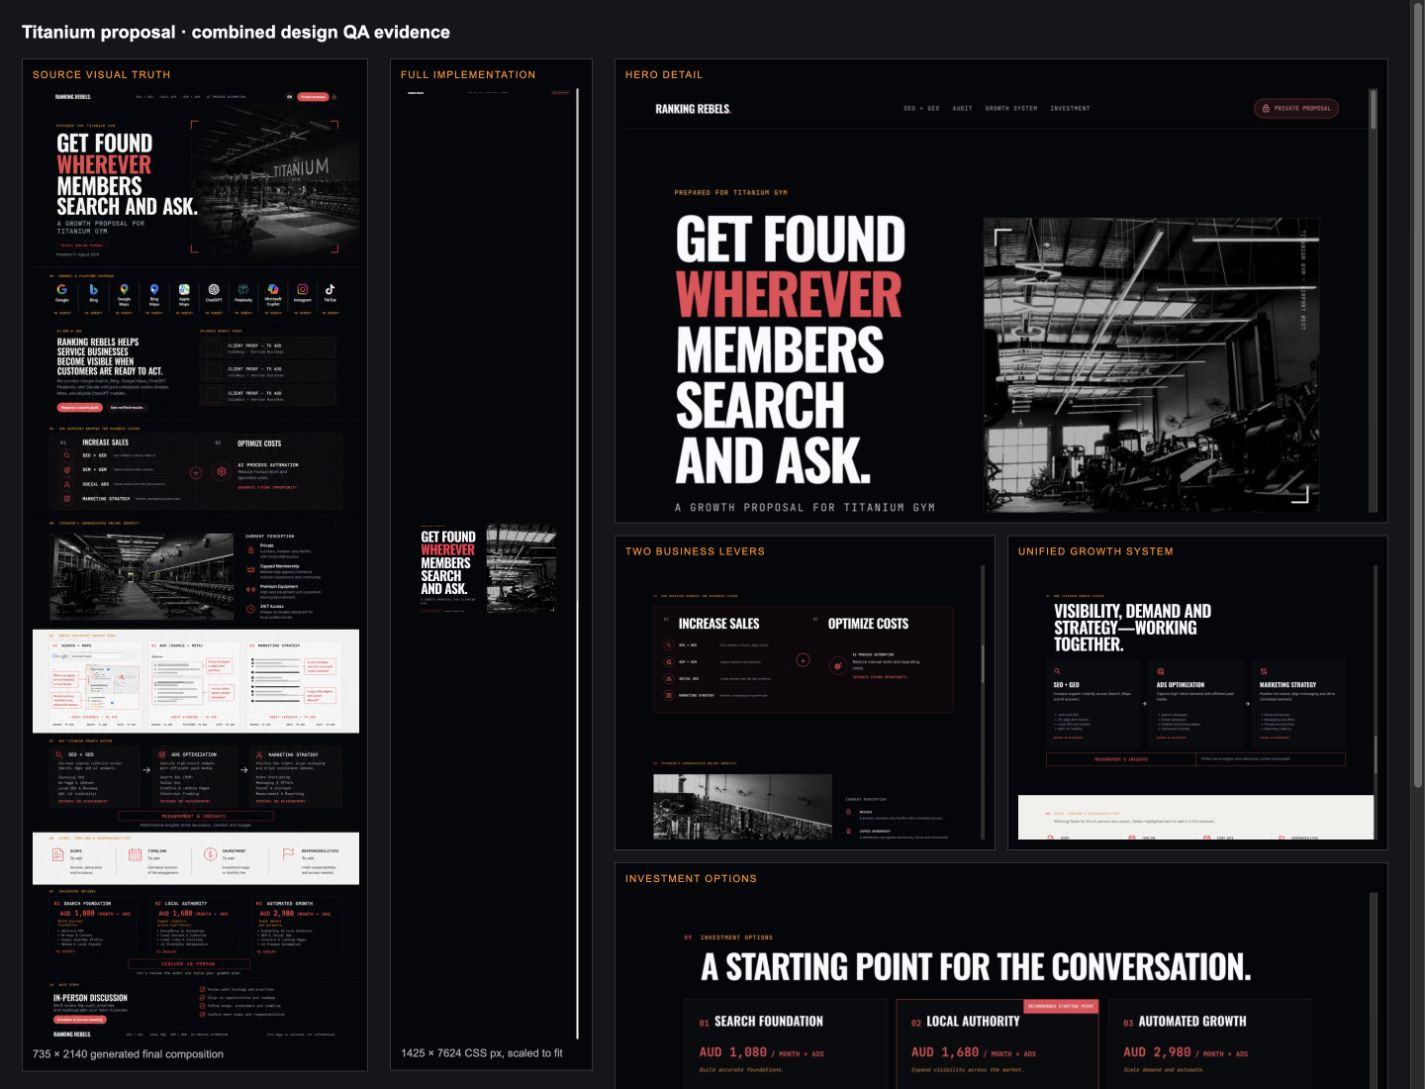
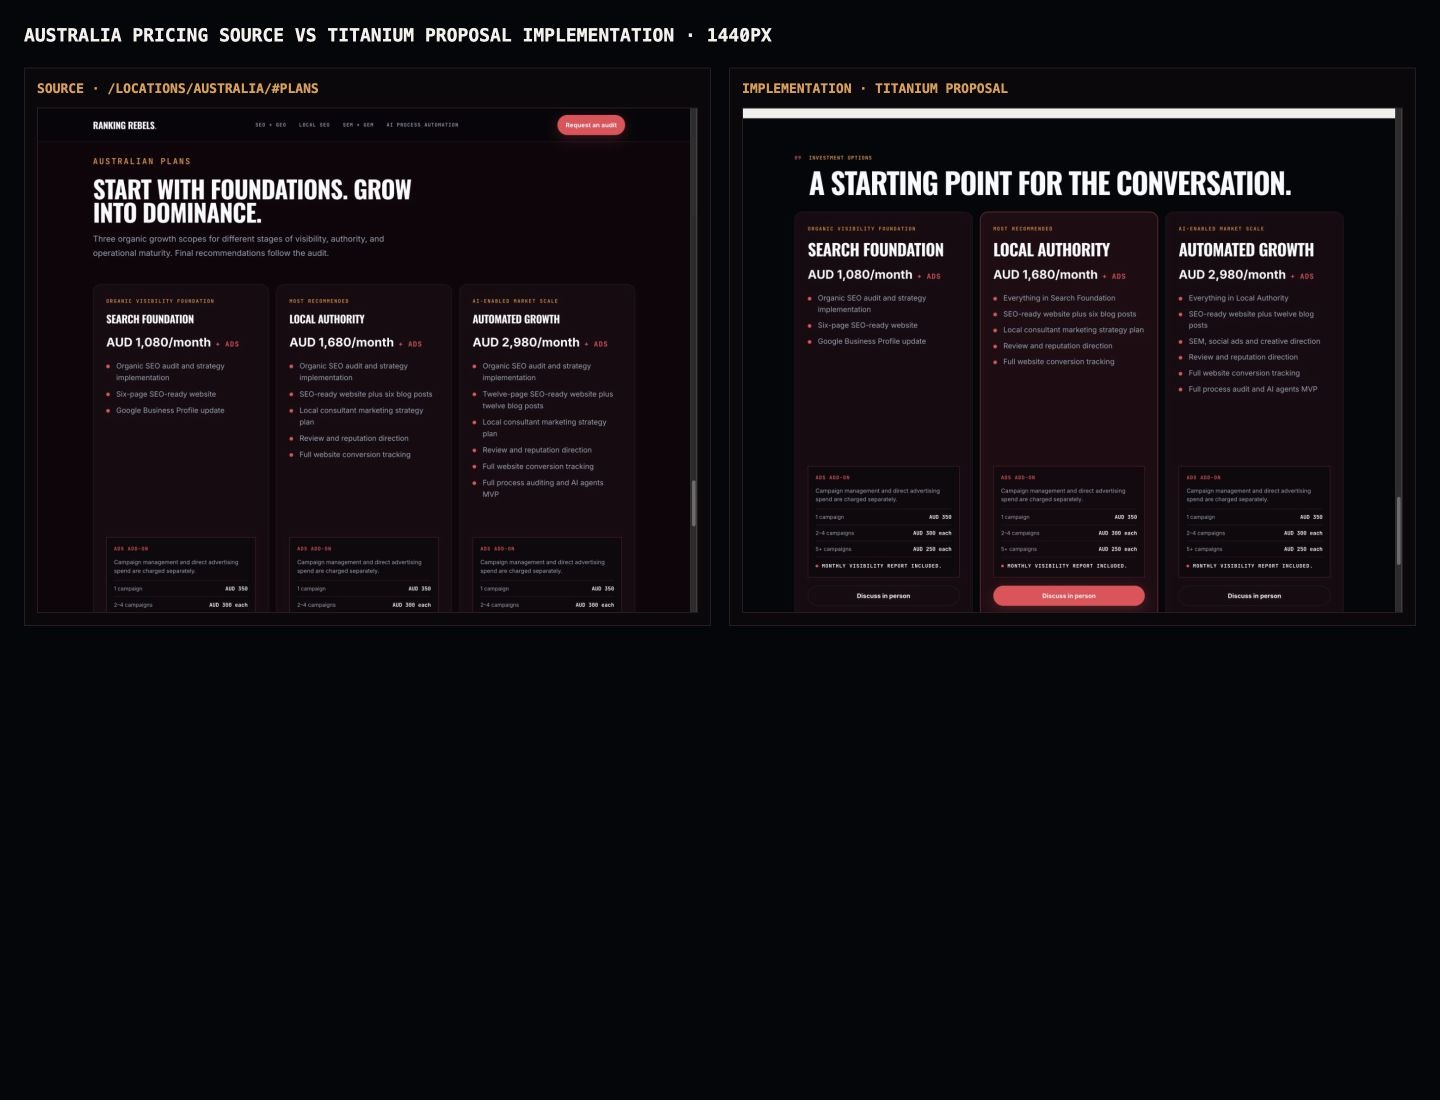
fix the cosmetic issues

diff --git a/proposals/titanium-gym-9c42e7/styles.css b/proposals/titanium-gym-9c42e7/styles.css
@@ -121,7 +121,6 @@ main > section { border-bottom: 1px solid var(--border); }
 .discussion,
 .platform-grid,
 .measurement,
-.ads-note,
 .perception-summary {
   max-width: var(--max);
   margin-inline: auto;
@@ -156,8 +155,8 @@ h3 { font-size: 25px; }
 
 .hero {
   display: grid;
-  grid-template-columns: minmax(0, .88fr) minmax(440px, 1.12fr);
-  gap: clamp(28px, 6vw, 84px);
+  grid-template-columns: minmax(520px, .96fr) minmax(420px, 1.04fr);
+  gap: clamp(28px, 4vw, 64px);
   align-items: center;
   min-height: calc(100vh - 68px);
   padding-block: clamp(56px, 7vw, 96px);
@@ -165,10 +164,11 @@ h3 { font-size: 25px; }
 .hero h1 {
   max-width: 640px;
   margin: 18px 0 24px;
-  font-size: clamp(64px, 7.5vw, 112px);
+  font-size: clamp(64px, 6.9vw, 104px);
   letter-spacing: -.045em;
+  overflow-wrap: normal;
 }
-.hero h1 span { display: block; color: var(--tertiary); }
+.hero h1 span { display: block; color: var(--tertiary); white-space: nowrap; overflow-wrap: normal; word-break: keep-all; }
 .hero-subtitle {
   max-width: 480px;
   margin: 0 0 30px;
@@ -246,6 +246,7 @@ h3 { font-size: 25px; }
 .platform:last-child { border-right: 0; }
 .platform .material-symbols-outlined { color: var(--neutral); font-size: 28px; }
 .platform > img { width: 28px; height: 28px; margin-inline: auto; object-fit: contain; }
+.platform > img.chatgpt-mark { width: 31px; height: 31px; }
 .platform > img.platform-mark-invert { filter: invert(1); }
 .platform strong { align-self: center; font-family: var(--display); font-size: 14px; line-height: 1.05; text-transform: uppercase; }
 .platform small { color: var(--accent); font-family: var(--mono); font-size: 8px; font-weight: 700; text-transform: uppercase; }
@@ -381,23 +382,45 @@ h3 { font-size: 25px; }
 
 .investment { padding-top: 78px; }
 .investment .section-heading h2 { margin: 12px 0 0; font-size: clamp(40px, 5vw, 64px); }
-.pricing-grid { display: grid; grid-template-columns: repeat(3, 1fr); gap: 18px; }
-.plan { position: relative; display: flex; flex-direction: column; min-height: 565px; padding: 28px; border: 1px solid var(--border); background: rgba(255,255,255,.018); }
-.plan.featured { border-color: rgba(255,48,79,.75); }
-.plan-badge { position: absolute; top: 0; right: 0; padding: 7px 9px; background: var(--tertiary); color: white; font-family: var(--mono); font-size: 8px; font-weight: 700; text-transform: uppercase; }
-.plan-title { display: flex; gap: 10px; align-items: baseline; }
-.plan-title span { color: var(--tertiary); font-family: var(--mono); font-weight: 700; }
-.plan-title h3 { margin: 0; font-size: 24px; }
-.price { margin: 24px 0 0; color: var(--tertiary); font-family: var(--mono); font-size: 13px; font-weight: 700; text-transform: uppercase; }
-.price strong { font-size: 24px; }
-.plan-fit { margin: 8px 0 17px; color: var(--accent); font-family: var(--mono); font-size: 10px; font-style: italic; }
-.plan ul { display: grid; gap: 9px; padding-left: 18px; color: #bcc1ca; font-size: 12px; }
-.plan-cta { display: block; margin-top: auto; padding: 13px; border: 1px solid var(--tertiary); color: var(--tertiary); font-family: var(--mono); font-size: 10px; font-weight: 700; text-align: center; text-decoration: none; text-transform: uppercase; }
-.plan-cta:hover, .plan-cta:focus-visible { background: var(--tertiary); color: white; }
-.ads-note { display: grid; grid-template-columns: 1.2fr repeat(3, auto); gap: 20px; align-items: center; margin-top: 22px; padding: 20px 24px; border: 1px solid var(--border); }
-.ads-note strong { font-family: var(--mono); text-transform: uppercase; }
-.ads-note span { color: var(--neutral); font-family: var(--mono); font-size: 10px; }
-.ads-note small { grid-column: 1 / -1; color: var(--secondary); }
+.pricing-grid { display: grid; grid-template-columns: repeat(3, minmax(0, 1fr)); gap: 16px; }
+.price-card {
+  display: flex;
+  flex-direction: column;
+  gap: 18px;
+  min-width: 0;
+  min-height: 890px;
+  padding: 28px;
+  border: 1px solid var(--border);
+  border-radius: 18px;
+  background: var(--surface-card);
+  transition: transform 180ms ease, border-color 180ms ease, box-shadow 180ms ease;
+}
+.price-card:hover { border-color: rgba(255,48,79,.5); box-shadow: 0 20px 48px rgba(0,0,0,.2); transform: translateY(-3px); }
+.price-card.featured { border-color: rgba(255,48,79,.75); background: #230b13; }
+.price-card h3 { margin: 0; font-size: clamp(28px, 2.5vw, 36px); letter-spacing: -.025em; }
+.plan-label { margin: 0; color: var(--accent); font-family: var(--mono); font-size: .68rem; font-weight: 600; letter-spacing: .15em; text-transform: uppercase; }
+.price { margin: 0; color: var(--neutral); font-family: var(--body); font-size: 1.65rem; font-weight: 900; text-transform: none; }
+.plan-price { display: flex; flex-wrap: wrap; align-items: baseline; gap: 5px 10px; }
+.plan-price-main, .plan-price-extra { white-space: nowrap; }
+.plan-price-extra { color: var(--tertiary); font-family: var(--mono); font-size: .58em; font-weight: 700; letter-spacing: .08em; text-transform: uppercase; }
+.feature-list { display: grid; gap: 10px; margin: 0; padding: 0; color: var(--secondary); list-style: none; }
+.feature-list li { position: relative; padding-left: 22px; }
+.feature-list li::before { position: absolute; top: .62em; left: 0; width: 8px; height: 8px; border-radius: 50%; background: var(--tertiary); content: ""; }
+.plan-ads { display: grid; gap: 11px; margin-top: auto; padding: 16px; border: 1px solid rgba(255,48,79,.34); background: rgba(5,6,9,.48); }
+.plan-ads-label, .plan-ads-report { margin: 0; color: var(--tertiary); font-family: var(--mono); font-size: .68rem; font-weight: 700; letter-spacing: .09em; text-transform: uppercase; }
+.plan-ads-note { margin: 0; color: var(--secondary); font-size: .78rem; line-height: 1.5; }
+.plan-ads-rates { display: grid; gap: 0; margin: 0; border-top: 1px solid var(--border); }
+.plan-ads-rates > div { display: flex; justify-content: space-between; gap: 12px; padding: 8px 0; border-bottom: 1px solid var(--border); }
+.plan-ads-rates dt, .plan-ads-rates dd { margin: 0; font-size: .73rem; }
+.plan-ads-rates dt { color: var(--secondary); }
+.plan-ads-rates dd { color: var(--neutral); font-family: var(--mono); font-weight: 700; text-align: right; }
+.plan-ads-report { position: relative; padding-left: 14px; color: var(--neutral); line-height: 1.45; }
+.plan-ads-report::before { position: absolute; top: .46em; left: 0; width: 6px; height: 6px; border-radius: 50%; background: var(--tertiary); content: ""; }
+.investment .button { display: inline-flex; align-items: center; justify-content: center; width: 100%; min-height: 44px; margin-top: 0; padding: 12px 18px; border-radius: 999px; font-size: .84rem; font-weight: 800; line-height: 1.15; text-align: center; text-decoration: none; transition: transform 150ms ease, border-color 150ms ease, background 150ms ease, box-shadow 150ms ease; }
+.investment .button-primary { background: var(--tertiary); color: #fff; box-shadow: 0 8px 28px rgba(255,48,79,.24); }
+.investment .button-primary:hover { background: #e72a46; box-shadow: 0 12px 34px rgba(255,48,79,.34); transform: translateY(-2px); }
+.investment .button-outline { border: 1px solid var(--border); background: var(--surface-card); color: var(--neutral); }
+.investment .button-outline:hover { border-color: var(--neutral); transform: translateY(-2px); }
 
 .discussion { display: grid; grid-template-columns: .85fr 1.15fr; gap: 80px; align-items: center; border-bottom: 0; }
 .discussion .section-heading { margin-bottom: 30px; }
@@ -435,14 +458,12 @@ h3 { font-size: 25px; }
   .lever + .lever { border-top: 1px solid rgba(255,48,79,.35); border-left: 0; }
   .lever-plus { top: 50%; }
   .audit-grid, .pricing-grid { grid-template-columns: 1fr; }
-  .audit-card, .plan { min-height: auto; }
+  .audit-card, .price-card { min-height: auto; }
   .system-grid { grid-template-columns: 1fr; gap: 12px; }
   .system-arrow { transform: rotate(90deg); }
   .system-grid p { min-height: 0; }
   .measurement { grid-template-columns: 1fr; }
   .measurement span { border-top: 1px solid var(--tertiary); border-left: 0; text-align: center; }
-  .ads-note { grid-template-columns: 1fr 1fr; }
-  .ads-note strong, .ads-note small { grid-column: 1 / -1; }
 }
 
 @media (max-width: 600px) {
@@ -471,10 +492,7 @@ h3 { font-size: 25px; }
   .scope-grid { grid-template-columns: 1fr; gap: 0; }
   .scope-grid article, .scope-grid article:nth-child(3) { padding: 20px 0; border-right: 0; border-bottom: 1px solid #cac4bd; }
   .scope-grid article:last-child { border-bottom: 0; }
-  .plan { padding: 24px 20px; }
-  .price strong { display: block; }
-  .ads-note { grid-template-columns: 1fr; }
-  .ads-note strong, .ads-note small { grid-column: auto; }
+  .price-card { padding: 24px 20px; }
   .site-footer { grid-template-columns: 1fr; gap: 8px; padding-block: 18px; }
   .site-footer p { grid-column: 1; justify-self: start; text-align: left; }
 }

diff --git a/proposals/titanium-gym-9c42e7/index.html b/proposals/titanium-gym-9c42e7/index.html
@@ -63,7 +63,7 @@
           <article class="platform" role="listitem"><img src="/proposals/titanium-gym-9c42e7/assets/logo-google-maps.svg" alt="" aria-hidden="true"><strong>Google Maps</strong><small>To verify</small></article>
           <article class="platform" role="listitem"><img src="/proposals/titanium-gym-9c42e7/assets/logo-bing.svg" alt="" aria-hidden="true"><strong>Bing Maps</strong><small>To verify</small></article>
           <article class="platform" role="listitem"><img class="platform-mark-invert" src="/proposals/titanium-gym-9c42e7/assets/logo-apple.svg" alt="" aria-hidden="true"><strong>Apple Maps</strong><small>To verify</small></article>
-          <article class="platform" role="listitem"><img src="/proposals/titanium-gym-9c42e7/assets/logo-openai.svg" alt="" aria-hidden="true"><strong>ChatGPT</strong><small>To verify</small></article>
+          <article class="platform" role="listitem"><img class="chatgpt-mark" src="/proposals/titanium-gym-9c42e7/assets/logo-chatgpt-blossom.svg" alt="" aria-hidden="true"><strong>ChatGPT</strong><small>To verify</small></article>
           <article class="platform" role="listitem"><img src="/proposals/titanium-gym-9c42e7/assets/logo-perplexity.svg" alt="" aria-hidden="true"><strong>Perplexity</strong><small>To verify</small></article>
           <article class="platform" role="listitem"><img src="/proposals/titanium-gym-9c42e7/assets/logo-copilot.svg" alt="" aria-hidden="true"><strong>Copilot</strong><small>To verify</small></article>
           <article class="platform" role="listitem"><img src="/proposals/titanium-gym-9c42e7/assets/logo-instagram.svg" alt="" aria-hidden="true"><strong>Instagram</strong><small>To verify</small></article>
@@ -204,33 +204,30 @@
           <div><p class="eyebrow">Investment options</p><h2 id="investment-title">A starting point for the conversation.</h2></div>
         </div>
         <div class="pricing-grid">
-          <article class="plan">
-            <div class="plan-title"><span>01</span><h3>Search Foundation</h3></div>
-            <p class="price"><strong>AUD 1,080</strong> / month + ads</p>
-            <p class="plan-fit">Build accurate foundations.</p>
-            <ul><li>Organic SEO audit and strategy implementation</li><li>Six-page SEO-ready website</li><li>Google Business Profile update</li></ul>
-            <a href="#discussion" class="plan-cta">Discuss in person</a>
+          <article class="price-card">
+            <p class="plan-label">Organic visibility foundation</p>
+            <h3>Search Foundation</h3>
+            <p class="price plan-price"><span class="plan-price-main">AUD 1,080/month</span><span class="plan-price-extra">+ Ads</span></p>
+            <ul class="feature-list"><li>Organic SEO audit and strategy implementation</li><li>Six-page SEO-ready website</li><li>Google Business Profile update</li></ul>
+            <div class="plan-ads" aria-label="Ads add-on pricing"><p class="plan-ads-label">Ads add-on</p><p class="plan-ads-note">Campaign management and direct advertising spend are charged separately.</p><dl class="plan-ads-rates"><div><dt>1 campaign</dt><dd>AUD 350</dd></div><div><dt>2–4 campaigns</dt><dd>AUD 300 each</dd></div><div><dt>5+ campaigns</dt><dd>AUD 250 each</dd></div></dl><p class="plan-ads-report">Monthly visibility report included.</p></div>
+            <a class="button button-outline" href="#discussion">Discuss in person</a>
           </article>
-          <article class="plan featured">
-            <div class="plan-badge">Recommended starting point</div>
-            <div class="plan-title"><span>02</span><h3>Local Authority</h3></div>
-            <p class="price"><strong>AUD 1,680</strong> / month + ads</p>
-            <p class="plan-fit">Expand visibility across the market.</p>
-            <ul><li>Everything in Search Foundation</li><li>SEO-ready website + six blog posts</li><li>Local consultant marketing strategy plan</li><li>Review and reputation direction</li><li>Full website conversion tracking</li></ul>
-            <a href="#discussion" class="plan-cta">Discuss in person</a>
+          <article class="price-card featured">
+            <p class="plan-label">Most recommended</p>
+            <h3>Local Authority</h3>
+            <p class="price plan-price"><span class="plan-price-main">AUD 1,680/month</span><span class="plan-price-extra">+ Ads</span></p>
+            <ul class="feature-list"><li>Everything in Search Foundation</li><li>SEO-ready website plus six blog posts</li><li>Local consultant marketing strategy plan</li><li>Review and reputation direction</li><li>Full website conversion tracking</li></ul>
+            <div class="plan-ads" aria-label="Ads add-on pricing"><p class="plan-ads-label">Ads add-on</p><p class="plan-ads-note">Campaign management and direct advertising spend are charged separately.</p><dl class="plan-ads-rates"><div><dt>1 campaign</dt><dd>AUD 350</dd></div><div><dt>2–4 campaigns</dt><dd>AUD 300 each</dd></div><div><dt>5+ campaigns</dt><dd>AUD 250 each</dd></div></dl><p class="plan-ads-report">Monthly visibility report included.</p></div>
+            <a class="button button-primary" href="#discussion">Discuss in person</a>
           </article>
-          <article class="plan">
-            <div class="plan-title"><span>03</span><h3>Automated Growth</h3></div>
-            <p class="price"><strong>AUD 2,980</strong> / month + ads</p>
-            <p class="plan-fit">Scale demand and automate.</p>
-            <ul><li>Everything in Local Authority</li><li>SEO-ready website + twelve blog posts</li><li>SEM, social ads and creative direction</li><li>Review and reputation direction</li><li>Full website conversion tracking</li><li>Full process audit and AI agents MVP</li></ul>
-            <a href="#discussion" class="plan-cta">Discuss in person</a>
+          <article class="price-card">
+            <p class="plan-label">AI-enabled market scale</p>
+            <h3>Automated Growth</h3>
+            <p class="price plan-price"><span class="plan-price-main">AUD 2,980/month</span><span class="plan-price-extra">+ Ads</span></p>
+            <ul class="feature-list"><li>Everything in Local Authority</li><li>SEO-ready website plus twelve blog posts</li><li>SEM, social ads and creative direction</li><li>Review and reputation direction</li><li>Full website conversion tracking</li><li>Full process audit and AI agents MVP</li></ul>
+            <div class="plan-ads" aria-label="Ads add-on pricing"><p class="plan-ads-label">Ads add-on</p><p class="plan-ads-note">Campaign management and direct advertising spend are charged separately.</p><dl class="plan-ads-rates"><div><dt>1 campaign</dt><dd>AUD 350</dd></div><div><dt>2–4 campaigns</dt><dd>AUD 300 each</dd></div><div><dt>5+ campaigns</dt><dd>AUD 250 each</dd></div></dl><p class="plan-ads-report">Monthly visibility report included.</p></div>
+            <a class="button button-outline" href="#discussion">Discuss in person</a>
           </article>
-        </div>
-        <div class="ads-note">
-          <strong>Paid campaign management</strong>
-          <span>1 campaign: AUD 350</span><span>2–4: AUD 300 each</span><span>5+: AUD 250 each</span>
-          <small>Direct media spend is separate. Monthly visibility report included.</small>
         </div>
       </section>
 

diff --git a/tests/titanium-proposal.test.js b/tests/titanium-proposal.test.js
@@ -17,6 +17,7 @@ test("Titanium proposal files and client assets stay inside the tokenized route"
     `${route}/script.js`,
     `${route}/assets/titanium-gym-floor.jpg`,
     `${route}/assets/titanium-hero-01.jpg`,
+    `${route}/assets/logo-chatgpt-blossom.svg`,
     `${route}/assets/final-visual-target.png`,
   ].forEach((file) => assert.equal(exists(file), true, `${file} should exist`));
 
@@ -66,6 +67,8 @@ test("coverage, audit placeholders and business levers are complete", () => {
     .forEach((service) => assert.ok(html.toLowerCase().includes(service.toLowerCase()), `${service} should be present`));
   assert.ok((html.match(/To verify/gi) || []).length >= 10);
   assert.match(html, /Audit evidence · to add/);
+  assert.match(html, /assets\/logo-chatgpt-blossom\.svg/);
+  assert.match(read(`${route}/assets/logo-chatgpt-blossom.svg`), /viewBox="140 220 280 280"/);
   assert.doesNotMatch(html, /guaranteed|first-page guarantee|#1 ranking/i);
 });
 
@@ -73,6 +76,12 @@ test("Australia plan pricing is copied accurately with discussion CTAs", () => {
   ["AUD 1,080", "AUD 1,680", "AUD 2,980", "AUD 350", "AUD 300 each", "AUD 250 each"]
     .forEach((price) => assert.ok(html.includes(price), `${price} should be present`));
   assert.equal((html.match(/Discuss in person/g) || []).length, 3);
+  assert.equal((html.match(/class="price-card(?: featured)?"/g) || []).length, 3);
+  assert.equal((html.match(/class="plan-ads"/g) || []).length, 3);
+  assert.match(html, /class="button button-primary"/);
+  assert.equal((html.match(/class="button button-outline"/g) || []).length, 2);
+  ["Everything in Search Foundation", "Everything in Local Authority", "SEM, social ads and creative direction"]
+    .forEach((scope) => assert.ok(html.includes(scope), `${scope} should be preserved`));
   assert.doesNotMatch(html, /book (?:a )?call|schedule (?:a )?meeting|calendly/i);
 });
 
@@ -84,5 +93,6 @@ test("proposal is responsive, accessible and motion-safe", () => {
   assert.match(styles, /@media \(max-width: 820px\)/);
   assert.match(styles, /@media \(max-width: 600px\)/);
   assert.match(styles, /@media \(prefers-reduced-motion: reduce\)/);
+  assert.match(styles, /\.hero h1 span \{[^}]*white-space:\s*nowrap/);
   assert.doesNotMatch(styles, /overflow-x:\s*hidden/);
 });

diff --git a/design-qa.md b/design-qa.md
@@ -3,6 +3,7 @@
 ## Evidence
 
 - Source visual truth: `/Users/sramzzs4d/Projects-sramzz/agency-website/proposals/titanium-gym-9c42e7/assets/final-visual-target.png`
+- Pricing source truth: `/Users/sramzzs4d/Projects-sramzz/agency-website/proposals/titanium-gym-9c42e7/assets/qa-pricing-reference.png` (live local capture of `/locations/australia/#plans`)
 - Implementation route: `http://127.0.0.1:4176/proposals/titanium-gym-9c42e7/`
 - Combined comparison: `/Users/sramzzs4d/Projects-sramzz/agency-website/proposals/titanium-gym-9c42e7/assets/qa-comparison.png`
 - Desktop hero: `/Users/sramzzs4d/Projects-sramzz/agency-website/proposals/titanium-gym-9c42e7/assets/qa-desktop-top.png`
@@ -14,7 +15,7 @@
 - Source: 735 × 2140 pixels, shown at its native density in the combined comparison.
 - Desktop implementation: 1425 × 7624 CSS pixels at device scale 1; the top capture is 1425 × 1100 pixels. The full page is scaled to fit beside the source in the combined comparison.
 - Tablet check: requested 768 × 1024; browser content viewport 753 pixels wide at device scale 1.
-- Mobile check: requested 390 × 844; browser content viewport 375 × 812 pixels at device scale 1.
+- Mobile check: requested 390 × 844; browser content viewport 375 × 844 pixels at device scale 1.
 - State: English proposal, dark theme, default editable values, no authentication.
 
 ## Full-view comparison
@@ -23,11 +24,11 @@ The combined comparison places the complete approved composition beside the full
 
 ## Focused region comparison
 
-- Hero: Oswald scale, line breaks, coral emphasis, monochrome Titanium imagery, and private-proposal treatment match the selected direction.
+- Hero: Oswald scale, line breaks, coral emphasis, monochrome Titanium imagery, and private-proposal treatment match the selected direction. “WHEREVER” is a single no-wrap line at 1425px, 1009px, 753px, and 375px content widths.
 - Two business levers: split panel, service grouping, central plus, thin coral borders, and separate AI opportunity match the reference.
 - Growth system: three connected pillars and shared measurement rail match the approved replacement section.
-- Investment: three Australia-plan cards, exact prices, highlighted middle plan, and in-person CTAs preserve the requested composition.
-- Platform coverage: local brand marks now replace the initial generic icon treatment; all ten platforms remain labelled “To verify.”
+- Investment: the proposal now uses the Australia page's `price-card`, `plan-label`, `plan-price`, `feature-list`, `plan-ads`, featured card, and pill-button treatments. The side-by-side comparison confirms the same dark burgundy surfaces, coral bullets, rounded corners, price hierarchy, ad panels, and highlighted middle plan while retaining the proposal-specific scopes and “Discuss in person.”
+- Platform coverage: local brand marks replace the initial generic icon treatment. ChatGPT now uses a proposal-local, viewport-cropped copy of the supplied white Blossom mark; all ten platforms remain labelled “To verify.”
 
 ## Required fidelity surfaces
 
@@ -52,6 +53,19 @@ The combined comparison places the complete approved composition beside the full
    - Desktop, tablet, and mobile report no horizontal overflow.
    - The proposal route reports no console errors or warnings.
    - “Discuss in person” navigates to `#discussion`; the editable timeline field accepts keyboard input.
+4. Feedback revision pass
+   - [P2] “WHEREVER” broke inside the word at desktop width.
+   - [P2] The previous ChatGPT mark was not visible in platform coverage.
+   - [P2] The proposal pricing composition did not yet reproduce the Australia homepage card surfaces, add-on panels, featured state, or pill buttons.
+5. Revision fixes
+   - Refined the desktop hero grid and display scale, then applied a no-wrap rule to the highlighted word.
+   - Replaced the ChatGPT asset with a proposal-local cropped copy of `assets/Logos/Blossom_Dark.svg`.
+   - Rebuilt all three investment cards with the Australia pricing markup and scoped visual rules, preserving proposal-specific prices, scopes, and CTA wording.
+6. Revision evidence
+   - Hero text has one client rect at 1425px, 1009px, 753px, and 375px content widths; each viewport reports zero horizontal overflow.
+   - ChatGPT asset reports a 280 × 280 natural viewport and renders sharply at 31 × 31 pixels.
+   - Australia and proposal pricing both render three price cards, three ads panels, two outline buttons, one featured primary button, and zero horizontal overflow.
+   - Desktop, tablet, and mobile browser checks report no console warnings or errors.
 
 ## Findings
 
